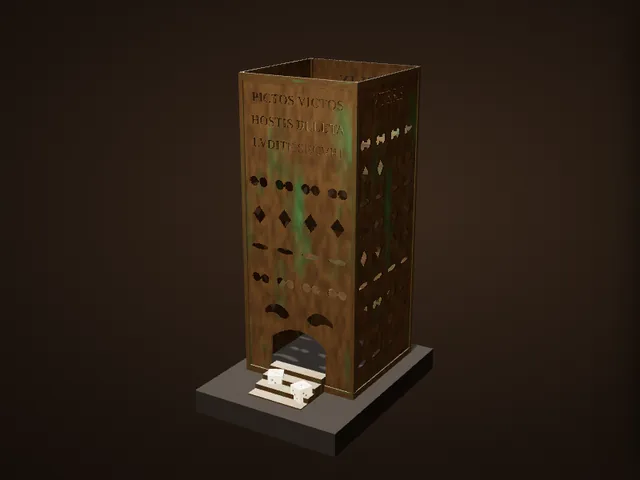
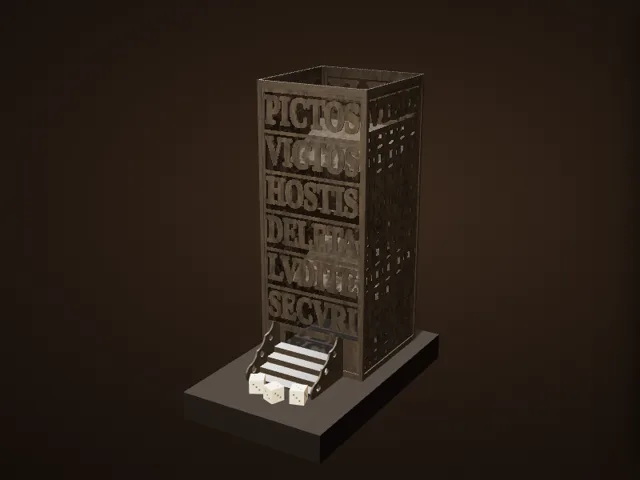
博物館：ダイスタワーをドイツ考古学研究所の写真に合わせて作り直し（黒ずんだ金属・6段の透かし文字・輪の格子・渦巻きの階段わき）
Claude-Session: https://claude.ai/code/session_01EiWRAZTxRF5M5nk5vdR2jJ

Changed region(s): [[0.2812, 0.125, 0.6875, 0.9688]]

diff --git a/atlas/museum/ex/pyrgus.js b/atlas/museum/ex/pyrgus.js
@@ -3,64 +3,58 @@
    with the three lines PICTOS VICTOS / HOSTIS DELETA / LVDITE SECVRI, the other faces with VTERE · FELIX · VIVAS round the top;
    inside, three levels of sloping baffles; the dice run out at the foot of the front down a little flight of steps (three bells
    hung above it, one survives — not shown). The lost top (perhaps battlements and pine cones) is not restored, as in the museum.
-   The openwork patterns between the letters are drawn in the manner of the piece (estimates). */
+   2026-11-21: redrawn after the photograph in the DAI's Arachne (1938922): blackened metal; the front's six words PICTOS · VICTOS ·
+   HOSTIS · DELETA · LVDITE · SECVRI in large openwork capitals filling the face, one word to a band; the sides a lattice of
+   overlapping rings under the word at the top; the steps between scrolled cheeks. The lattice's exact drawing is an estimate. */
 (function () {
   'use strict';
   (window.AtlasEx = window.AtlasEx || {}).pyrgus = {
     build(TT, X, K) {
       const G = new TT.Group();
       const W = 9, H = 22, T = .12;
-      // the metal: dark copper-alloy with a brown-green patina, brighter on the edges
+      // the metal: blackened copper alloy, a faint brown sheen on the worn edges (the photograph in the DAI's Arachne, 1938922)
       const patT = K.tex(512, 512, (g, w, h) => { const n = K.noise(11), img = g.createImageData(w, h), d = img.data;
-        for (let y = 0; y < h; y++) for (let x = 0; x < w; x++) { const a = n(x / 90, y / 90, 5), b = n(x / 18 + 9, y / 18, 3), gr = Math.max(0, a - .52) * 2.2, i = (y * w + x) * 4;
-          d[i] = 96 + b * 40 - gr * 40; d[i + 1] = 74 + b * 30 + gr * 50; d[i + 2] = 48 + b * 18 + gr * 34; d[i + 3] = 255; } g.putImageData(img, 0, 0); });
-      // a face: openwork drawn white-on-black into an alpha map (black = holes)
-      const face = (fn) => K.tex(512, Math.round(512 * H / W), (g, w, h) => { g.fillStyle = '#fff'; g.fillRect(0, 0, w, h); g.fillStyle = '#000'; fn(g, w, h, w / W); }, { data: true });
-      const ROM = (g, s, txt, x, y, size) => { g.font = `700 ${size * s}px "Times New Roman",Georgia,serif`; g.textAlign = 'center'; g.textBaseline = 'middle'; g.fillText(txt, x, y); };
-      // the openwork below the letters: rows of peltae (twin curls) and lattice — a common late-Roman openwork vocabulary
-      const pattern = (g, w, h, s, y0, y1) => {
-        const rows = Math.floor((y1 - y0) / (s * 1.9)); const rh = (y1 - y0) / rows;
-        for (let r = 0; r < rows; r++) {
-          const cy = y0 + (r + .5) * rh, kind = r % 3;
-          for (let c = 0; c < 4; c++) {
-            const cx = s * (1.35 + c * 2.1);
-            g.beginPath();
-            if (kind === 0) { g.arc(cx - s * .38, cy, s * .36, 0, Math.PI * 2); g.arc(cx + s * .38, cy, s * .36, 0, Math.PI * 2); }
-            else if (kind === 1) { g.moveTo(cx, cy - s * .7); g.lineTo(cx + s * .55, cy); g.lineTo(cx, cy + s * .7); g.lineTo(cx - s * .55, cy); g.closePath(); }
-            else { g.ellipse(cx, cy, s * .7, s * .22, 0, 0, Math.PI * 2); }
-            g.fill();
-          }
-        }
-      };
-      const frame = (g, w, h, s) => { g.fillStyle = '#fff'; };
-      const front = face((g, w, h, s) => {
-        // the three lines in pierced capitals, then the openwork, then the arched exit at the foot
-        ['PICTOS VICTOS', 'HOSTIS DELETA', 'LVDITE SECVRI'].forEach((t, i) => ROM(g, s, t, w / 2, s * (1.6 + i * 1.55), .92));
-        pattern(g, w, h, s, s * 6.2, h - s * 6.4);
-        // the exit: an arched opening, and the two dolphins' outlines above it (the bells hung from them)
-        g.beginPath(); g.moveTo(s * 2.2, h - s * .2); g.lineTo(s * 2.2, h - s * 3.2); g.quadraticCurveTo(w / 2, h - s * 5.2, w - s * 2.2, h - s * 3.2); g.lineTo(w - s * 2.2, h - s * .2); g.closePath(); g.fill();
-        [-1, 1].forEach(k => { g.save(); g.translate(w / 2 + k * s * 1.9, h - s * 5.4); g.scale(k, 1); g.beginPath();
-          g.moveTo(-s * 1.2, s * .2); g.quadraticCurveTo(-s * .4, -s * .9, s * .6, -s * .2); g.quadraticCurveTo(s * 1.1, s * .1, s * .9, s * .5); g.quadraticCurveTo(s * .3, s * .1, -s * .3, s * .5); g.quadraticCurveTo(-s * .9, s * .8, -s * 1.2, s * .2); g.fill(); g.restore(); });
-      });
-      const side = word => face((g, w, h, s) => { ROM(g, s, word, w / 2, s * 1.6, 1.35); pattern(g, w, h, s, s * 3.2, h - s * 1.2); });
-      const metal = am => K.mat({ map: patT, alphaMap: am, alphaTest: .5, transparent: false, side: TT.DoubleSide, color: '#ffffff', roughness: .55, metalness: .85 });
+        for (let y = 0; y < h; y++) for (let x = 0; x < w; x++) { const a = n(x / 90, y / 90, 5), b = n(x / 14 + 9, y / 14, 3), i = (y * w + x) * 4;
+          d[i] = 74 + b * 40 + a * 20; d[i + 1] = 72 + b * 34 + a * 12; d[i + 2] = 70 + b * 28; d[i + 3] = 255; } g.putImageData(img, 0, 0); });
+      // a face as an alpha map: white = metal, black = cut away
+      const face = (fn) => K.tex(512, Math.round(512 * H / W), (g, w, h) => { g.fillStyle = '#fff'; g.fillRect(0, 0, w, h); fn(g, w, h, w / W); }, { data: true });
+      const ROM = (g, s, txt, x, y, size, wide) => { g.font = `700 ${size * s}px "Times New Roman",Georgia,serif`; g.textAlign = 'center'; g.textBaseline = 'middle';
+        const m = g.measureText(txt).width, k = Math.min(1.6, wide / m); g.save(); g.translate(x, y); g.scale(k, 1); g.fillText(txt, 0, 0); g.strokeStyle = g.fillStyle; g.lineWidth = s * .22; g.lineJoin = 'round'; g.strokeText(txt, 0, 0); g.restore(); };
+      // a band of openwork letters: the ground cut away, the letters left standing, tied to the bars above and below
+      const letters = (g, w, s, y0, bh, txt) => { g.fillStyle = '#000'; g.fillRect(s * .45, y0, w - s * .9, bh); g.fillStyle = '#fff'; ROM(g, s, txt, w / 2, y0 + bh * .53, bh / s * 1.05, w - s * 1.1); };
+      // the lattice of the sides: overlapping rings leaving quatrefoils and lozenges between them
+      const lattice = (g, w, s, y0, y1) => { g.fillStyle = '#000'; g.fillRect(s * .45, y0, w - s * .9, y1 - y0); g.save(); g.beginPath(); g.rect(s * .45, y0, w - s * .9, y1 - y0); g.clip();
+        const r = s * 1.25, st = r * 1.42; g.strokeStyle = '#fff'; g.lineWidth = s * .42;
+        for (let y = y0; y < y1 + st; y += st) for (let x = s * .45; x < w + st; x += st) { g.beginPath(); g.arc(x, y, r, 0, 6.29); g.stroke(); }
+        g.fillStyle = '#fff'; for (let y = y0 + st / 2; y < y1 + st; y += st) for (let x = s * .45 + st / 2; x < w + st; x += st) { g.beginPath(); g.arc(x, y, s * .3, 0, 6.29); g.fill(); }
+        g.restore(); };
+      const LINES = ['PICTOS', 'VICTOS', 'HOSTIS', 'DELETA', 'LVDITE', 'SECVRI'];
+      const front = face((g, w, h, s) => { const top = s * .7, foot = s * 3.0, bh = (h - top - foot) / 6;
+        LINES.forEach((t, i) => letters(g, w, s, top + i * bh + s * .12, bh - s * .24, t));
+        g.fillStyle = '#000'; g.beginPath(); g.rect(s * 2.0, h - s * 2.6, w - s * 4.0, s * 2.6); g.fill(); });   // the exit at the foot, onto the steps
+      const side = word => face((g, w, h, s) => { letters(g, w, s, s * .75, s * 2.3, word); lattice(g, w, s, s * 3.45, h - s * .7); });
+      const metal = am => K.mat({ map: patT, alphaMap: am, alphaTest: .5, transparent: false, side: TT.DoubleSide, color: '#ffffff', roughness: .45, metalness: .7 });
       const faces = [[front, 0, W / 2, 0], [side('VTERE'), Math.PI / 2, 0, W / 2], [side('FELIX'), Math.PI, -W / 2, 0], [side('VIVAS'), -Math.PI / 2, 0, -W / 2]];
       // front faces +z
       const planeG = new TT.PlaneGeometry(W, H);
       faces.forEach(([am, ry], i) => { const m = new TT.Mesh(planeG, metal(am)); m.rotation.y = ry; m.position.set(Math.sin(ry) * W / 2, H / 2, Math.cos(ry) * W / 2); G.add(m);
         const m2 = m.clone(); m2.position.multiplyScalar(1).setY(H / 2); m2.position.x *= (W / 2 - T) / (W / 2); m2.position.z *= (W / 2 - T) / (W / 2); G.add(m2); });
       // corner posts and the rims at the top and the foot (solid plate)
-      const solid = K.mat({ map: patT, color: '#ffffff', roughness: .5, metalness: .85 });
+      const solid = K.mat({ map: patT, color: '#ffffff', roughness: .45, metalness: .7 });
       [[1, 1], [1, -1], [-1, 1], [-1, -1]].forEach(([a, b]) => { const p = new TT.Mesh(new TT.BoxGeometry(.32, H, .32), solid); p.position.set(a * (W / 2 - .1), H / 2, b * (W / 2 - .1)); G.add(p); });
       [H - .25, .25].forEach(y => { [[W + .1, .5, .12, 0, W / 2], [W + .1, .5, .12, 0, -W / 2], [.12, .5, W + .1, W / 2, 0], [.12, .5, W + .1, -W / 2, 0]].forEach(([a, b, c, x, z]) => { const r = new TT.Mesh(new TT.BoxGeometry(a, b, c), solid); r.position.set(x, y, z); G.add(r); }); });
       // inside: three sloping baffles, alternate sides
       [16.5, 11.5, 6.5].forEach((y, i) => { const b = new TT.Mesh(new TT.BoxGeometry(W - .3, .1, W * .62), solid); b.position.set(0, y, (i % 2 ? 1 : -1) * W * .17); b.rotation.x = (i % 2 ? -1 : 1) * .5; G.add(b); });
-      // the little flight of steps out of the front
-      for (let k = 0; k < 4; k++) { const st = new TT.Mesh(new TT.BoxGeometry(W - 4.6, .1 + .35 * (3 - k), .9), solid); st.position.set(0, (.1 + .35 * (3 - k)) / 2, W / 2 + .45 + k * .9 - .45); G.add(st); }
+      // the flight of steps out of the front, between two scrolled cheeks (the photograph)
+      for (let k = 0; k < 4; k++) { const st = new TT.Mesh(new TT.BoxGeometry(W - 3.4, .15 + .45 * (3 - k), 1.0), solid); st.position.set(0, (.15 + .45 * (3 - k)) / 2, W / 2 + .5 + k * 1.0); G.add(st); }
+      const ch = new TT.Shape(); ch.moveTo(0, 0); ch.lineTo(4.4, 0); ch.quadraticCurveTo(4.8, .9, 4.0, 1.1); ch.quadraticCurveTo(3.3, 1.2, 3.1, 1.9); ch.quadraticCurveTo(2.2, 2.0, 2.0, 2.8); ch.quadraticCurveTo(1.0, 2.8, .9, 3.6); ch.quadraticCurveTo(.3, 3.4, 0, 3.0); ch.closePath();
+      ch.holes.push(new TT.Path().absarc(3.6, .65, .3, 0, 6.29, true), new TT.Path().absarc(2.5, 1.5, .28, 0, 6.29, true), new TT.Path().absarc(1.3, 2.4, .26, 0, 6.29, true));
+      const chG = new TT.ExtrudeGeometry(ch, { depth: .14, bevelEnabled: false, curveSegments: 10 });
+      [-1, 1].forEach(k => { const m = new TT.Mesh(chG, solid); m.rotation.y = -Math.PI / 2; m.position.set(k * (W / 2 - 1.62), 0, W / 2); G.add(m); });
       // a few dice just thrown, bone, with drilled pips
       const boneT = K.tex(256, 256, (g, w, h) => { g.fillStyle = '#e8dcc0'; g.fillRect(0, 0, w, h); g.fillStyle = 'rgba(60,40,20,.85)'; [[.3, .3], [.7, .7], [.5, .5]].forEach(([x, y]) => { g.beginPath(); g.arc(x * w, y * h, w * .07, 0, 6.29); g.fill(); }); });
       const bone = K.mat({ map: boneT, color: '#ffffff', roughness: .6 });
-      [[-1.2, 5.6, .5], [1.4, 6.3, 1.2]].forEach(([x, z, r]) => { const d = new TT.Mesh(new TT.BoxGeometry(1.1, 1.1, 1.1), bone); d.position.set(x, .55, z); d.rotation.y = r; G.add(d); });
+      [[-1.4, 9.8, .5], [.4, 10.3, 1.2], [2.1, 9.6, .3]].forEach(([x, z, r]) => { const d = new TT.Mesh(new TT.BoxGeometry(1.1, 1.1, 1.1), bone); d.position.set(x, .55, z); d.rotation.y = r; G.add(d); });
       return G;
     },
   };

diff --git a/atlas/museum/gallery-ja.js b/atlas/museum/gallery-ja.js
@@ -62,7 +62,7 @@
         ['中の3段の板', '傾いた板が左右交互に3段。サイコロは当たるたびに向きを変え、どの目が出るか分からなくなります。'],
         ['出口の階段', 'サイコロは小さな階段を下りて出てきます。出口の上には鐘が3つ下がっていて、1つが残っています。'],
         ['サイコロ', '展示用に置いた骨のサイコロ（参考）。転がり出たサイコロが、そのまま盤の勝負を決めました。']],
-      model: '寸法（高さ22cm・9cm四方）、銘文、中の3段の板、出口の階段は記録にもとづきます。透かしの模様やイルカの形、サイコロは推定・参考です。失われた上部（胸壁や松かさの飾りがあったと考えられています）と鐘は表していません。',
+      model: "寸法（高さ22cm・9cm四方）、銘文、中の3段の板、出口の階段は記録にもとづきます。黒ずんだ金属の色、正面いっぱいに1語ずつ6段に並ぶ透かし文字、側面の輪をつないだ格子、階段の両わきの渦巻きの板は、ドイツ考古学研究所（Arachne）の写真に合わせました。格子の細かな形とサイコロは推定・参考です。失われた上部（胸壁や松かさの飾りがあったと考えられています）と鐘は表していません。",
       src: [['Epigraphic Database Heidelberg HD018228（寸法・銘文）', 'https://edh-www.adw.uni-heidelberg.de/edh/inschrift/HD018228'], ['H. G. Horn, Bonner Jahrbücher の論文（発見と組み立て）', 'https://journals.ub.uni-heidelberg.de/index.php/bjb/article/view/66190/59071']] },
     ballinderry: { name: 'バリンダリーのゲーム盤', alt: 'ヴァイキング時代のタフル盤', date: '10世紀', where: 'アイルランド（ウェストミース州）', found: '1932年、バリンダリーのクラノーグ（湖の人工島の住居）第1号の発掘で、2つに割れた状態で見つかった',
       museum: 'アイルランド国立博物館（ダブリン）', no: 'NMI 1932:6533', mat: 'イチイ材', size: '約24cm四方（1932年の報告で9½インチ）',

diff --git a/atlas/museum/gallery-en.js b/atlas/museum/gallery-en.js
@@ -61,7 +61,7 @@
         ['Three baffles inside', 'Sloping plates on alternate sides, three levels deep. Each knock turns the dice, so no one can steer the throw.'],
         ['The exit steps', 'The dice come down a tiny staircase. Three bells hung above the exit; one survives.'],
         ['Dice', 'Bone dice placed for the display (for reference). The dice that tumbled out decided the game on the board.']],
-      model: 'The size (22 cm high, 9 cm square), the inscriptions, the three baffles and the exit steps follow the record. The openwork patterns, the dolphins and the dice are estimates or for reference. The lost top (thought to have had battlements and pine cones) and the bells are not shown.',
+      model: "The size (22 cm high, 9 cm square), the inscriptions, the three baffles and the exit steps follow the record. The blackened metal, the six words in openwork capitals filling the front one to a band, the lattice of linked rings on the sides and the scrolled cheeks of the steps follow a photograph in the German Archaeological Institute's Arachne. The fine drawing of the lattice and the dice are estimates or for reference. The lost top (thought to have had battlements and pine cones) and the bells are not shown.",
       src: [['Epigraphic Database Heidelberg HD018228 (size, inscription)', 'https://edh-www.adw.uni-heidelberg.de/edh/inschrift/HD018228'], ['H. G. Horn, article in the Bonner Jahrbücher (find and reassembly)', 'https://journals.ub.uni-heidelberg.de/index.php/bjb/article/view/66190/59071']] },
     ballinderry: { name: 'The Ballinderry Gaming Board', alt: 'A tafl board of the Viking age', date: '10th century', where: 'Ireland (Co. Westmeath)', found: 'Found broken in two in 1932, in the excavation of Ballinderry crannóg No. 1 (a dwelling on an artificial island in a lake)',
       museum: 'National Museum of Ireland, Dublin', no: 'NMI 1932:6533', mat: 'Yew', size: 'About 24 cm square (9½ in. in the 1932 report)',

diff --git a/atlas/museum.js b/atlas/museum.js
@@ -32,7 +32,7 @@
   const ROOMS = [
     { id: 'map', ready: () => !!window.AtlasMap, render: (el, c) => AtlasMap.render(el, c) },
     { id: 'tree', src: ['museum/tree.js?v=2'], ready: () => !!window.AtlasTree, render: (el, c) => AtlasTree.render(el, c) },
-    { id: 'gallery', src: ['museum/gallery.js?v=25'], ready: () => !!window.AtlasGallery, render: (el, c) => AtlasGallery.render(el, c) },
+    { id: 'gallery', src: ['museum/gallery.js?v=26'], ready: () => !!window.AtlasGallery, render: (el, c) => AtlasGallery.render(el, c) },
   ];
   const KEY = 'atlas-museum-room';
   const esc = s => String(s == null ? '' : s).replace(/[&<>"]/g, c => ({ '&': '&amp;', '<': '&lt;', '>': '&gt;', '"': '&quot;' }[c]));

diff --git a/atlas/index.html b/atlas/index.html
@@ -2559,7 +2559,7 @@ window.AtlasRgdTimer = function (btn, ms, alive) {
 <link rel="stylesheet" href="worldmap.css?v=19">
 <link rel="stylesheet" href="museum.css?v=4">
 <script src="worldmap.js?v=40"></script>
-<script src="museum.js?v=26"></script>
+<script src="museum.js?v=27"></script>
 <script src="npc/npc.js?v=46"></script>
 <script src="avtalk.js?v=4"></script>
 <script>/* Page states as classes on <html> (2026-11-21) — html.cov-on: the 3D view / Historia / a sheet / a level sheet is open;

diff --git a/atlas/museum/gallery.js b/atlas/museum/gallery.js
@@ -10,7 +10,7 @@
    (a turn, a zoom, the slow turntable) and never while the window is in the background. */
 (function () {
   'use strict';
-  const V = 25;
+  const V = 26;
   /* ---------- the pieces: id, the game it belongs to, its scale (cm per model unit), the camera's start, the details ----------
      lock: { game, ach } → open after that many achievements of the game. src: the files the piece needs (besides ex/<id>.js) */
   const EX = [

diff --git a/claude/museum-spec.md b/claude/museum-spec.md
@@ -53,6 +53,7 @@
     記録：興福寺の将棋駒（文化遺産オンライン 413142 の写真）2026-11-21：木の色を暖かい黄褐色に、駒を幅と高さがほぼ同じ・肩の低い形に、墨を大きくにじませ木目に沿ってかすれさせた（数値は撮影条件が違うため目視で比較）。
     記録：バリンダリーの盤（Discovery Programme／アイルランド国立博物館の3Dスキャン、Sketchfab）2026-11-21：灰色がかった焦げ茶の木、小さく浅い穴、中央の二重の輪と四隅をまたぐ四分円、すり減った彫りに修正（目視比較）。
     記録：ルイス島のチェス駒（大英博物館の3Dスキャン、Sketchfab）2026-11-21：象牙の色を灰色がかった黄褐色＋茶色のしみに修正。座像3体（王・王妃・司教）の形を作り直し（肩の落ちた幅広の一塊の体に大きな面長の頭を沈め、玉座は横と後ろだけに見せる）。続けて見張りと騎士も（尖った兜と鼻当て、面長の顔、騎士の馬は大きく立った頭・帯状のたてがみ・板状の脚）。
+    記録：ダイスタワー（ドイツ考古学研究所 Arachne 1938922 の写真）2026-11-21：黒ずんだ金属、正面は1語ずつ6段の大きな透かし文字（文字が残り地が抜ける）、側面は輪をつないだ格子、階段の両わきに渦巻きの板（目視比較）。
   - スマホで遠目に見たときのちらつき・白飛びがないこと（カメラの near/far を狭く、テクスチャはミップマップと異方性フィルタ、トーンマップの露出 .85、重なる面は polygonOffset）。
 - 収蔵品（2026-11-21）：
   - ウルの王族のゲーム盤（大英博物館 120834）— ポータルのウルの3D盤（`atlas/models/ur.js`）をそのまま使う（実物そっくりの出来）。
